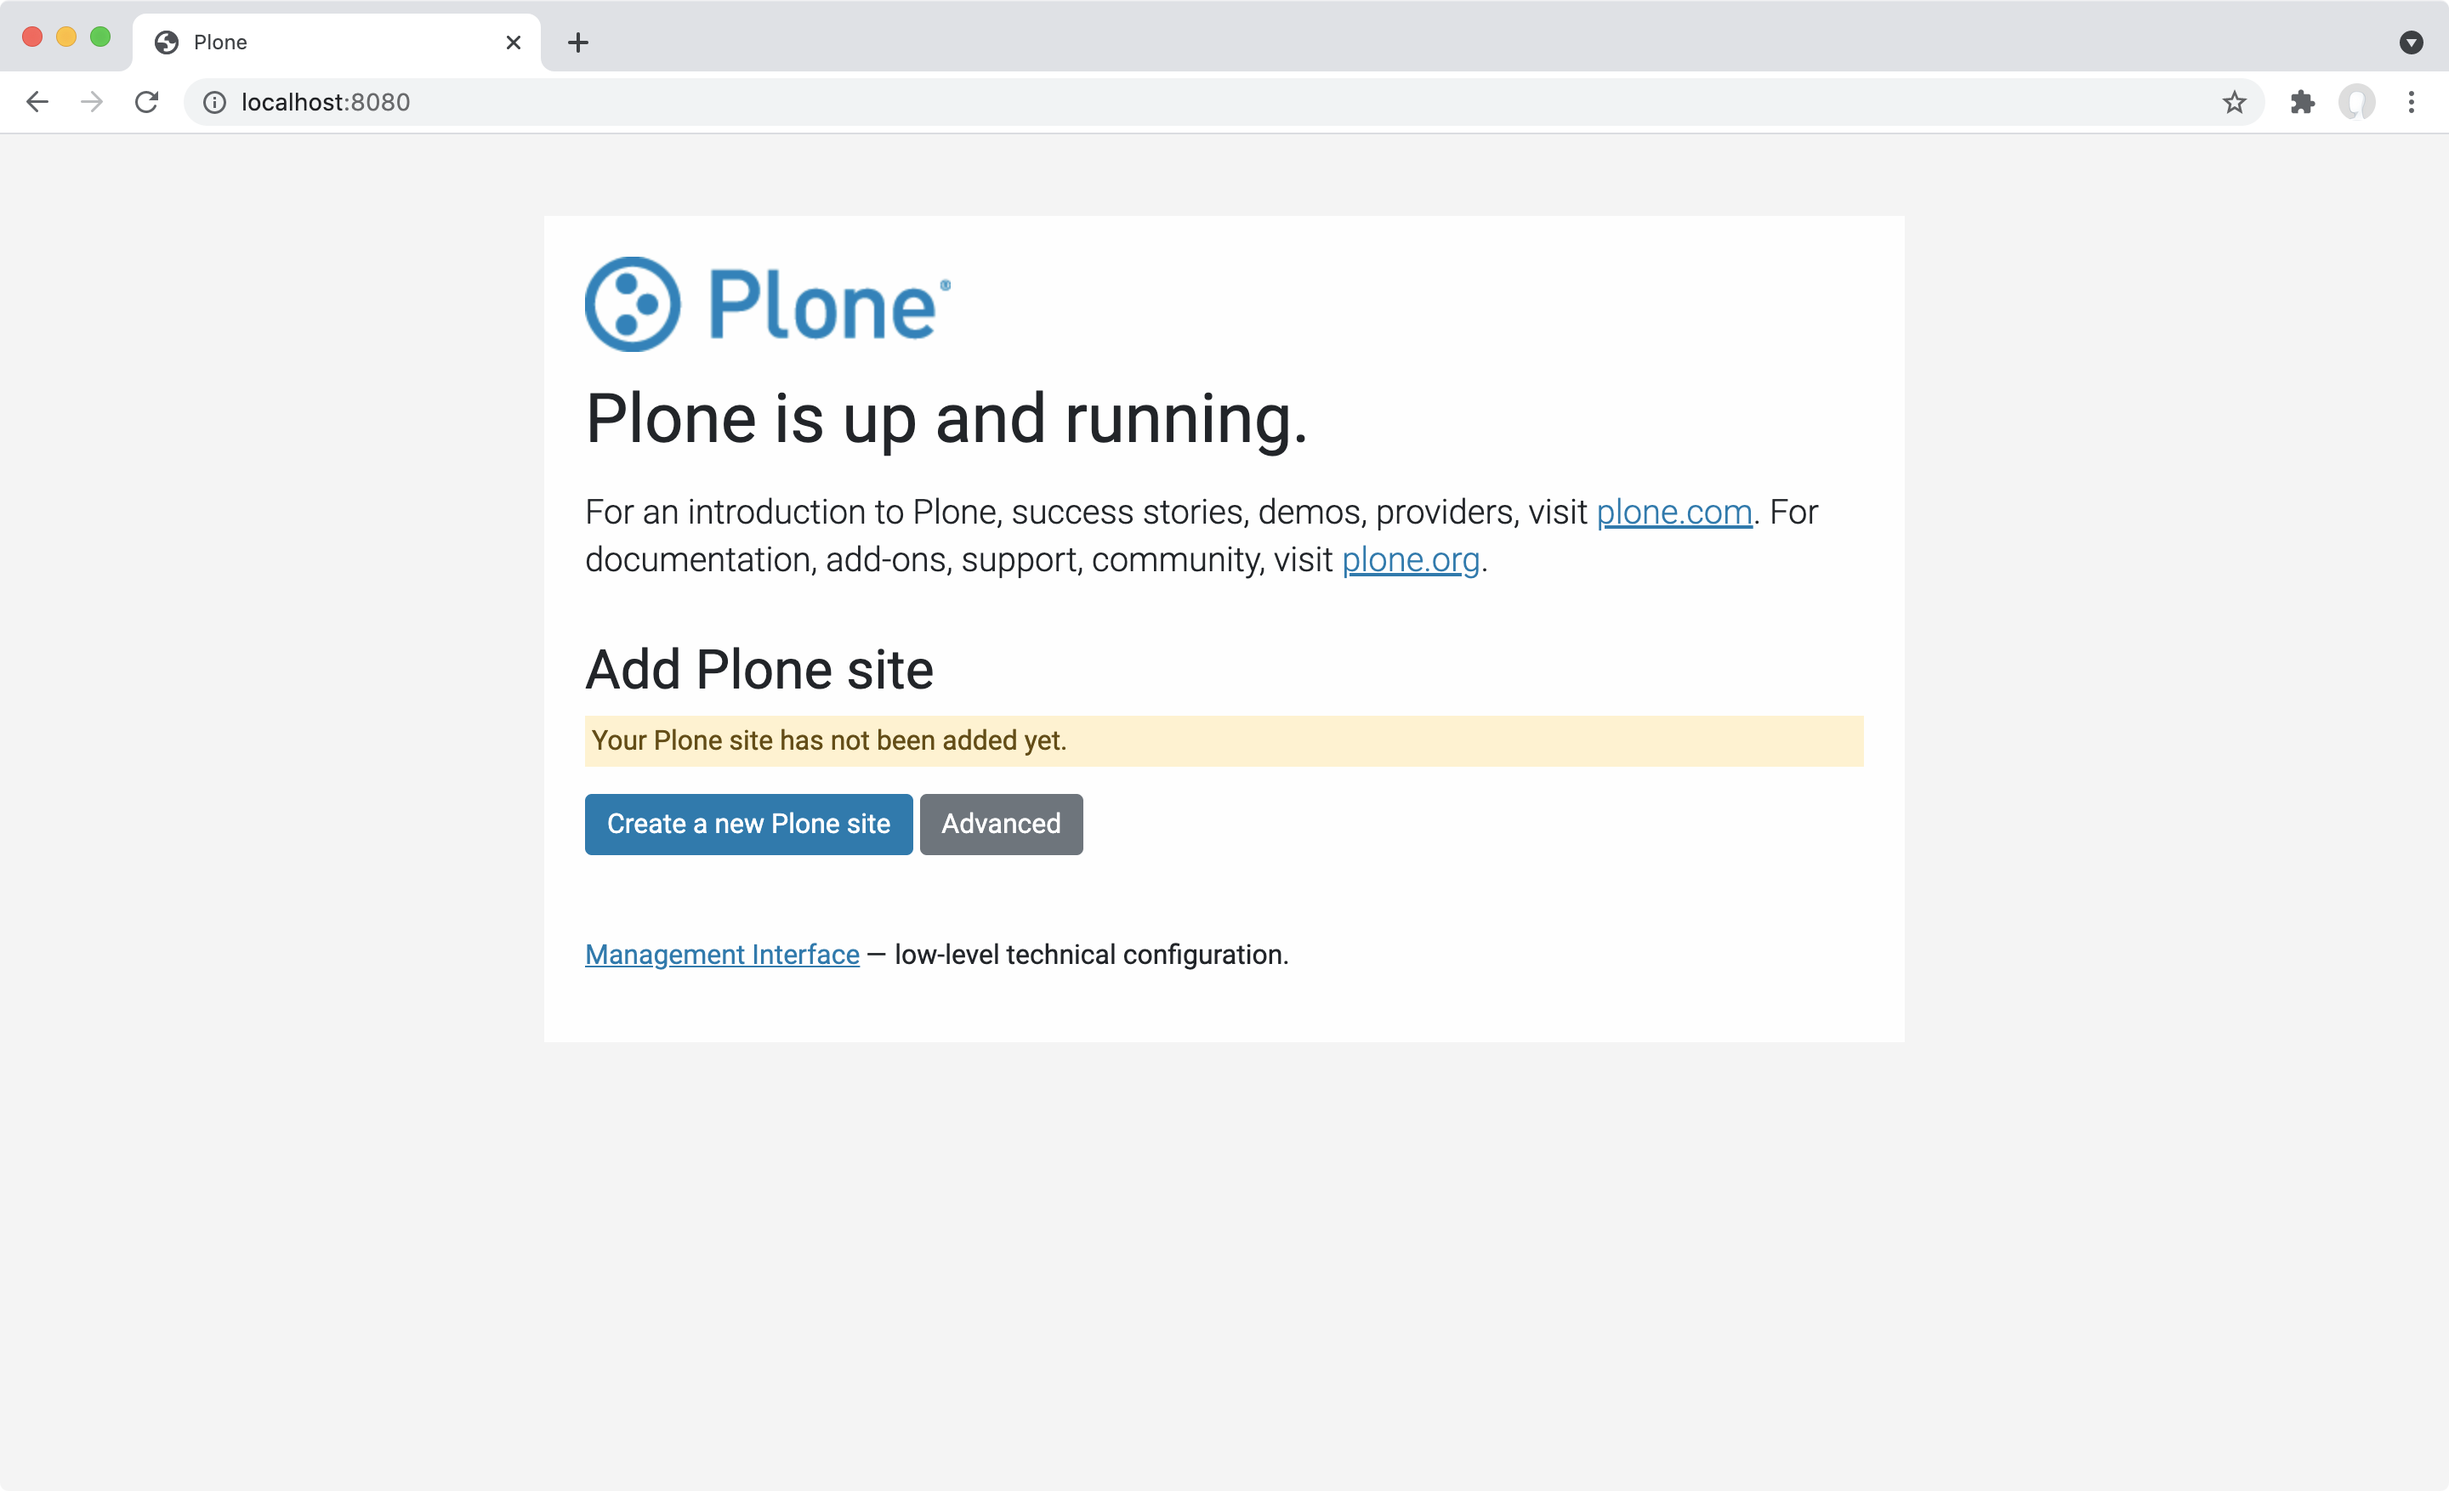
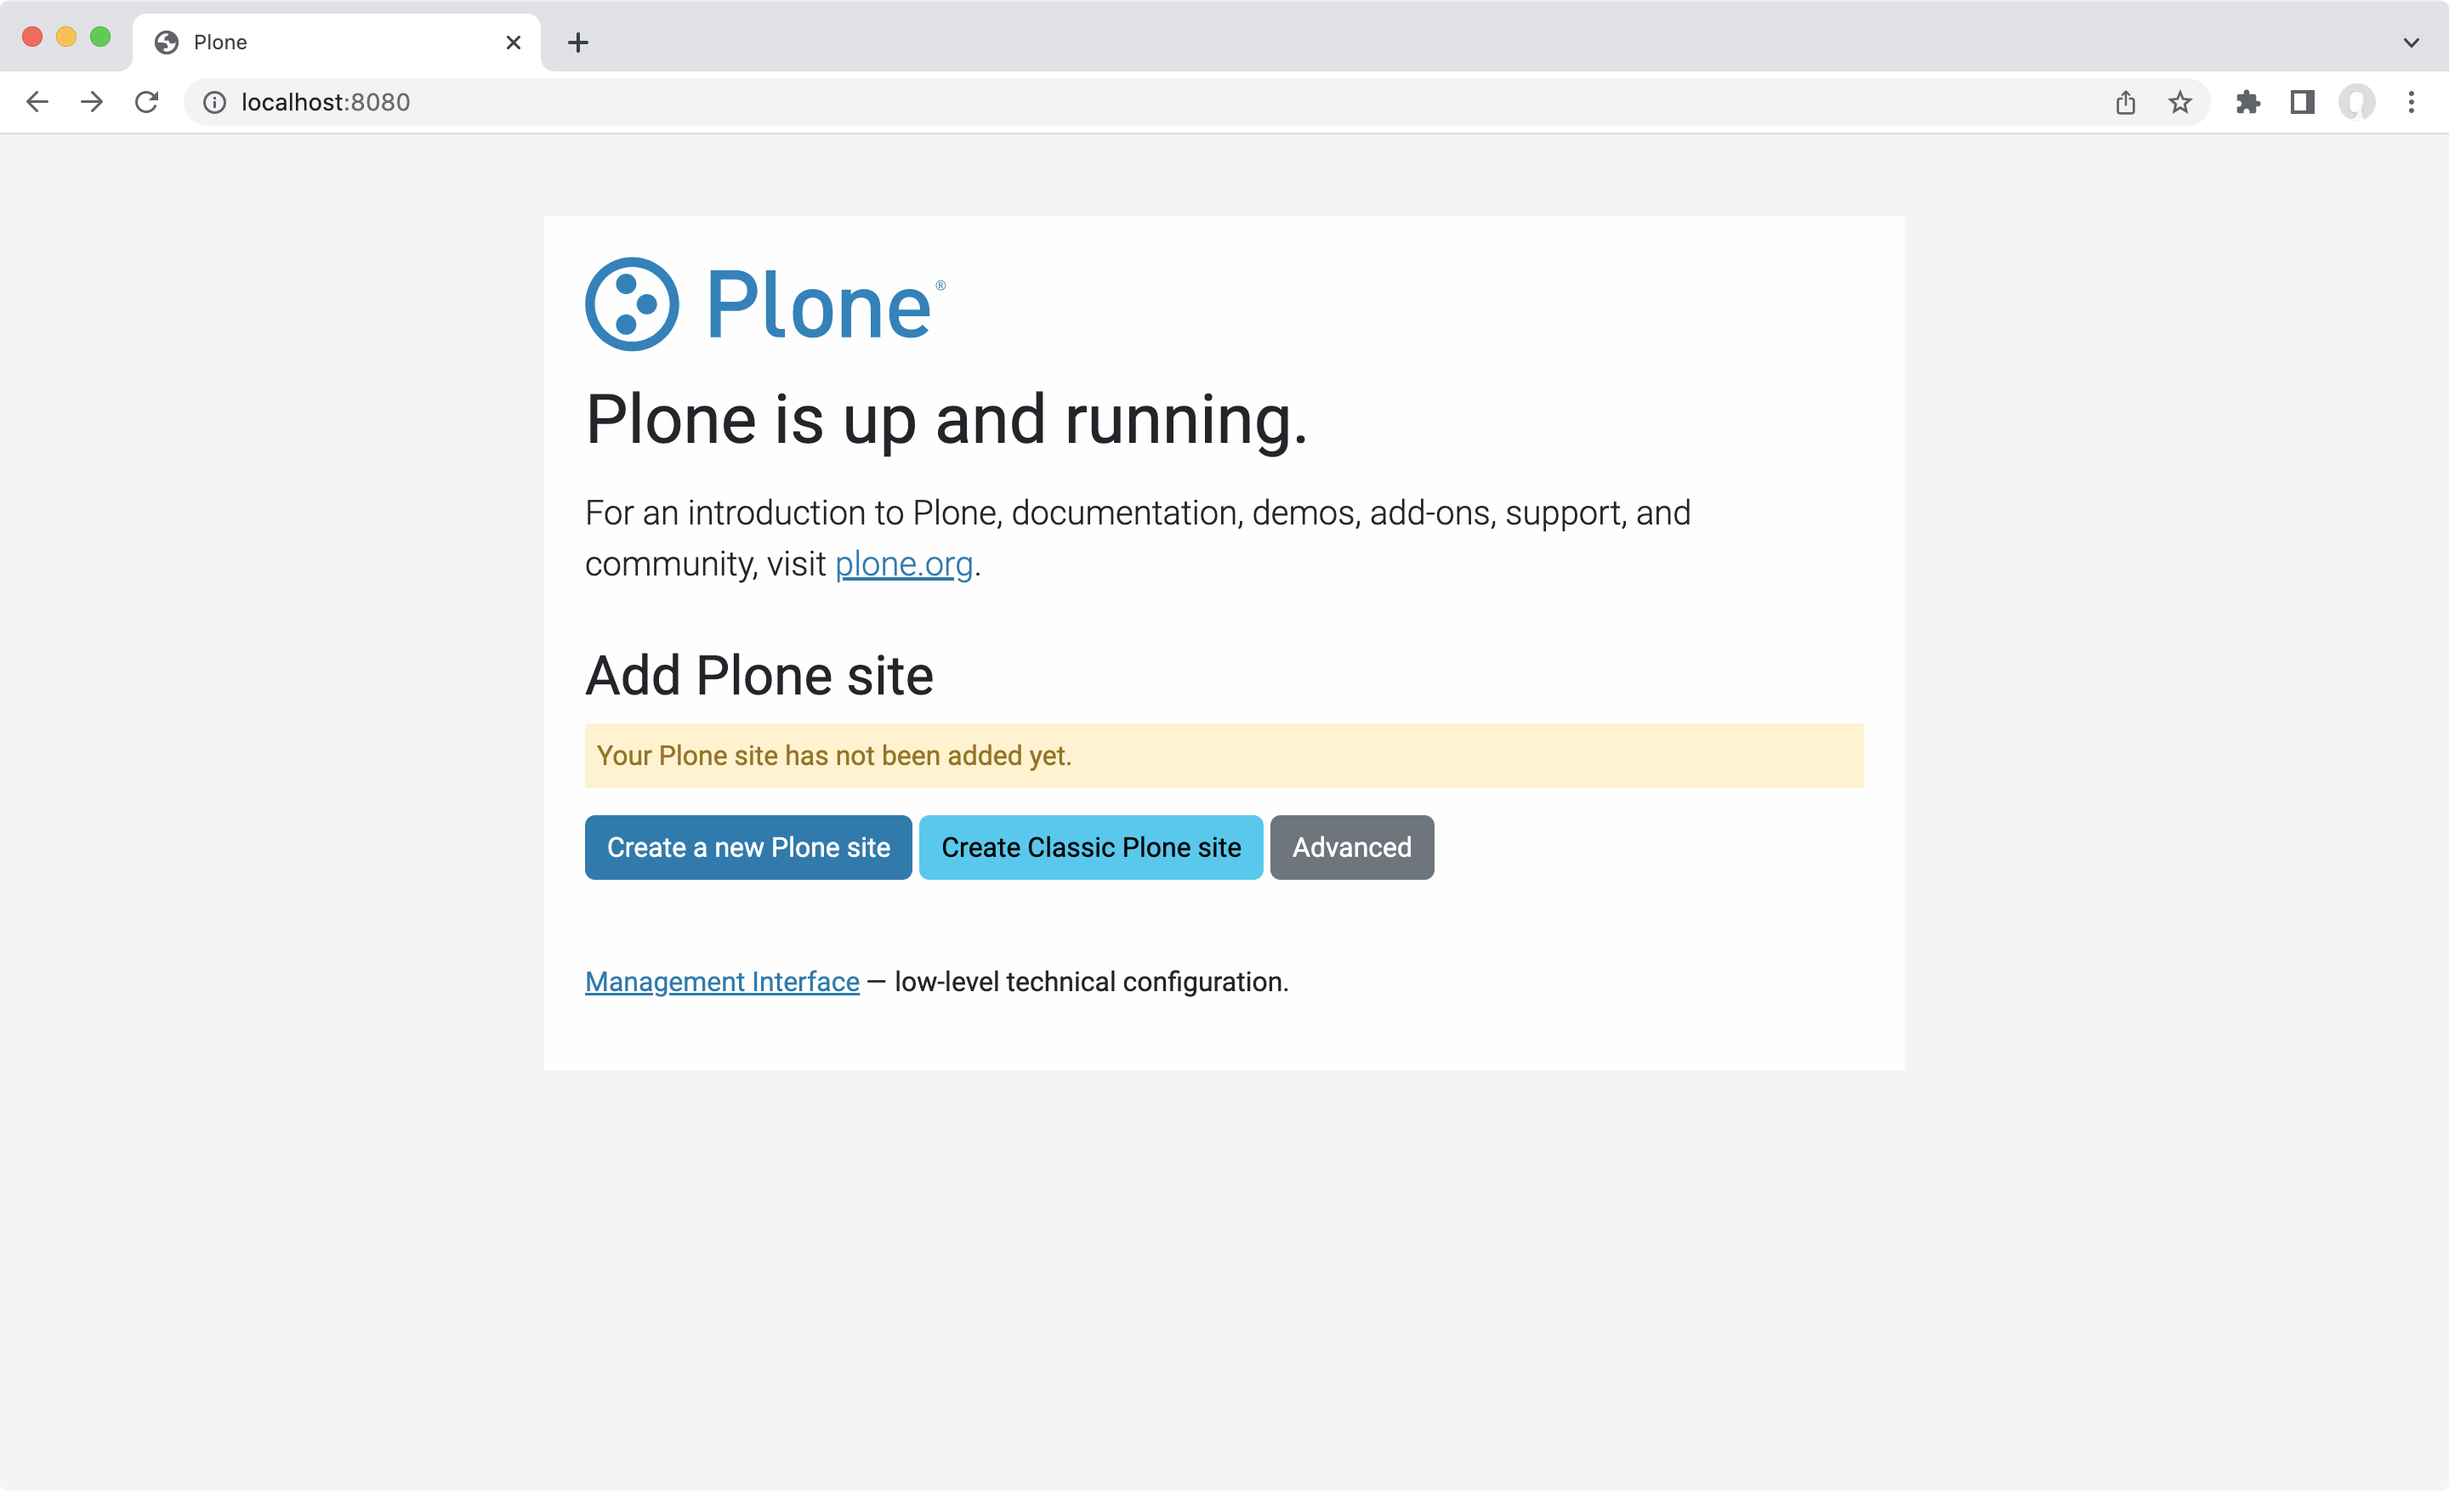
update training docs for 2022

diff --git a/docs/theming/theme_scratch.md b/docs/theming/theme_scratch.md
@@ -174,23 +174,33 @@ http://localhost:8080/
 :alt: Add Plone site.
 ```
 
-Click on {guilabel}`Advanced` to show more options.
+Click on `Create Classic Plone site` to add your site.
 
-Scroll down to your package and activate the checkbox next to it. This will create a new Plone site and install our add-on in one go. Since the theme is part of the add-on it will be activated automatically.
+You see some basic styling because a precompiled `src/plonetheme/tokyo/theme/css/theme.min.css` has been shipped with the template.
 
-```{image} _static/scratch/add-plone-site-advanced.png
-:alt: Add Plone site advanced.
+Now we have to activate our add-on. This is done in the add-on section of the control panel:
+
+http://localhost:8080/Plone/@@overview-controlpanel
+
+```{image} _static/scratch/install-addon.png
+:alt: Install add-on.
 ```
 
-Click on `Create Plone site` to add your site.
+Navigate to the control panel and activate your add-on. After that step your site may look broken until we actually work on the new theme. Before we start theming we're going to add a copy of the main template to our theme package.
 
-You see some basic styling because a precompiled `src/plonetheme/tokyo/theme/css/theme.min.css` has been shipped with the template. Bevor we start theming we're going to add a copy of the main template to our theme package.
+```{note}
+You can always switch back to the default Barceloneta theme in the theming control panel: http://localhost:8080/Plone/@@theming-controlpanel
+```
 
 ## Override Main Template
 
 Copy the page template from `parts/omelette/Products/CMFPlone/browser/templates/main_template.pt` to `src/plonetheme/tokyo/browser/templates/main_template.pt`.
 
 Copy the main template python file from `parts/omelette/Products/CMFPlone/browser/main_template.py` to `src/plonetheme/tokyo/browser/main_template.py`.
+
+```{note}
+Create a folder for templates if it does not already exist.
+```
 
 Register the template:
 
@@ -267,14 +277,22 @@ Let's make use of Bootstrap's layout system and add a `container`, a `row` and s
 
   <head>
     <meta charset="utf-8" />
+
     <div tal:replace="structure provider:plone.htmlhead" />
+
+    <tal:comment replace="nothing">
+        Various slots where you can insert elements in the header from a template.
+    </tal:comment>
     <metal:topslot define-slot="top_slot" />
     <metal:headslot define-slot="head_slot" />
     <metal:styleslot define-slot="style_slot" />
+
     <div tal:replace="structure provider:plone.scripts" />
     <metal:javascriptslot define-slot="javascript_head_slot" />
+
     <link tal:replace="structure provider:plone.htmlhead.links" />
-    <meta name="generator" content="Plone - http://plone.com" />
+    <meta name="generator" content="Plone - https://plone.org/" />
+
   </head>
 
   <body tal:define="isRTL portal_state/is_rtl;
@@ -283,13 +301,17 @@ Let's make use of Bootstrap's layout system and add a `container`, a `row` and s
                     body_class python:plone_layout.bodyClass(template, view);"
         tal:attributes="class body_class;
                         dir python:isRTL and 'rtl' or 'ltr';
-                        python:plone_view.patterns_settings()"
+                        python:context.restrictedTraverse('@@plone_patterns_settings')();"
         id="visual-portal-wrapper">
 
     <div tal:replace="structure provider:plone.toolbar" />
 
     <header id="portal-top" i18n:domain="plone">
       <div tal:replace="structure provider:plone.portaltop" />
+      <div id="portal-header">
+        <div tal:replace="structure provider:plone.portalheader" />
+      </div>
+
     </header>
 
     <div id="portal-mainnavigation" tal:content="structure provider:plone.mainnavigation">
@@ -298,15 +320,17 @@ Let's make use of Bootstrap's layout system and add a `container`, a `row` and s
 
     <section id="global_statusmessage">
       <tal:message tal:content="structure provider:plone.globalstatusmessage"/>
-      <div metal:define-slot="global_statusmessage"></div>
+      <div metal:define-slot="global_statusmessage">
+      </div>
     </section>
 
-    <div id="viewlet-above-content" tal:content="structure provider:plone.abovecontent" />
-
     <div class="container">
+
       <div class="row">
 
         <div class="col-lg-8">
+
+          <div id="viewlet-above-content" tal:content="structure provider:plone.abovecontent" />
 
           <article id="portal-column-content">
 
@@ -363,13 +387,17 @@ Let's make use of Bootstrap's layout system and add a `container`, a `row` and s
 
         <div class="col-lg-4">
 
-          <aside id="portal-column-one" metal:define-slot="column_one_slot" tal:condition="sl">
+          <aside id="portal-column-one"
+                metal:define-slot="column_one_slot"
+                tal:condition="sl">
             <metal:portlets define-slot="portlets_one_slot">
               <tal:block replace="structure provider:plone.leftcolumn" />
             </metal:portlets>
           </aside>
 
-          <aside id="portal-column-two" metal:define-slot="column_two_slot" tal:condition="sr">
+          <aside id="portal-column-two"
+                metal:define-slot="column_two_slot"
+                tal:condition="sr">
             <metal:portlets define-slot="portlets_two_slot">
               <tal:block replace="structure provider:plone.rightcolumn" />
             </metal:portlets>
@@ -378,6 +406,7 @@ Let's make use of Bootstrap's layout system and add a `container`, a `row` and s
         </div>
 
       </div>
+
     </div>
 
     <footer id="portal-footer-wrapper" i18n:domain="plone">
